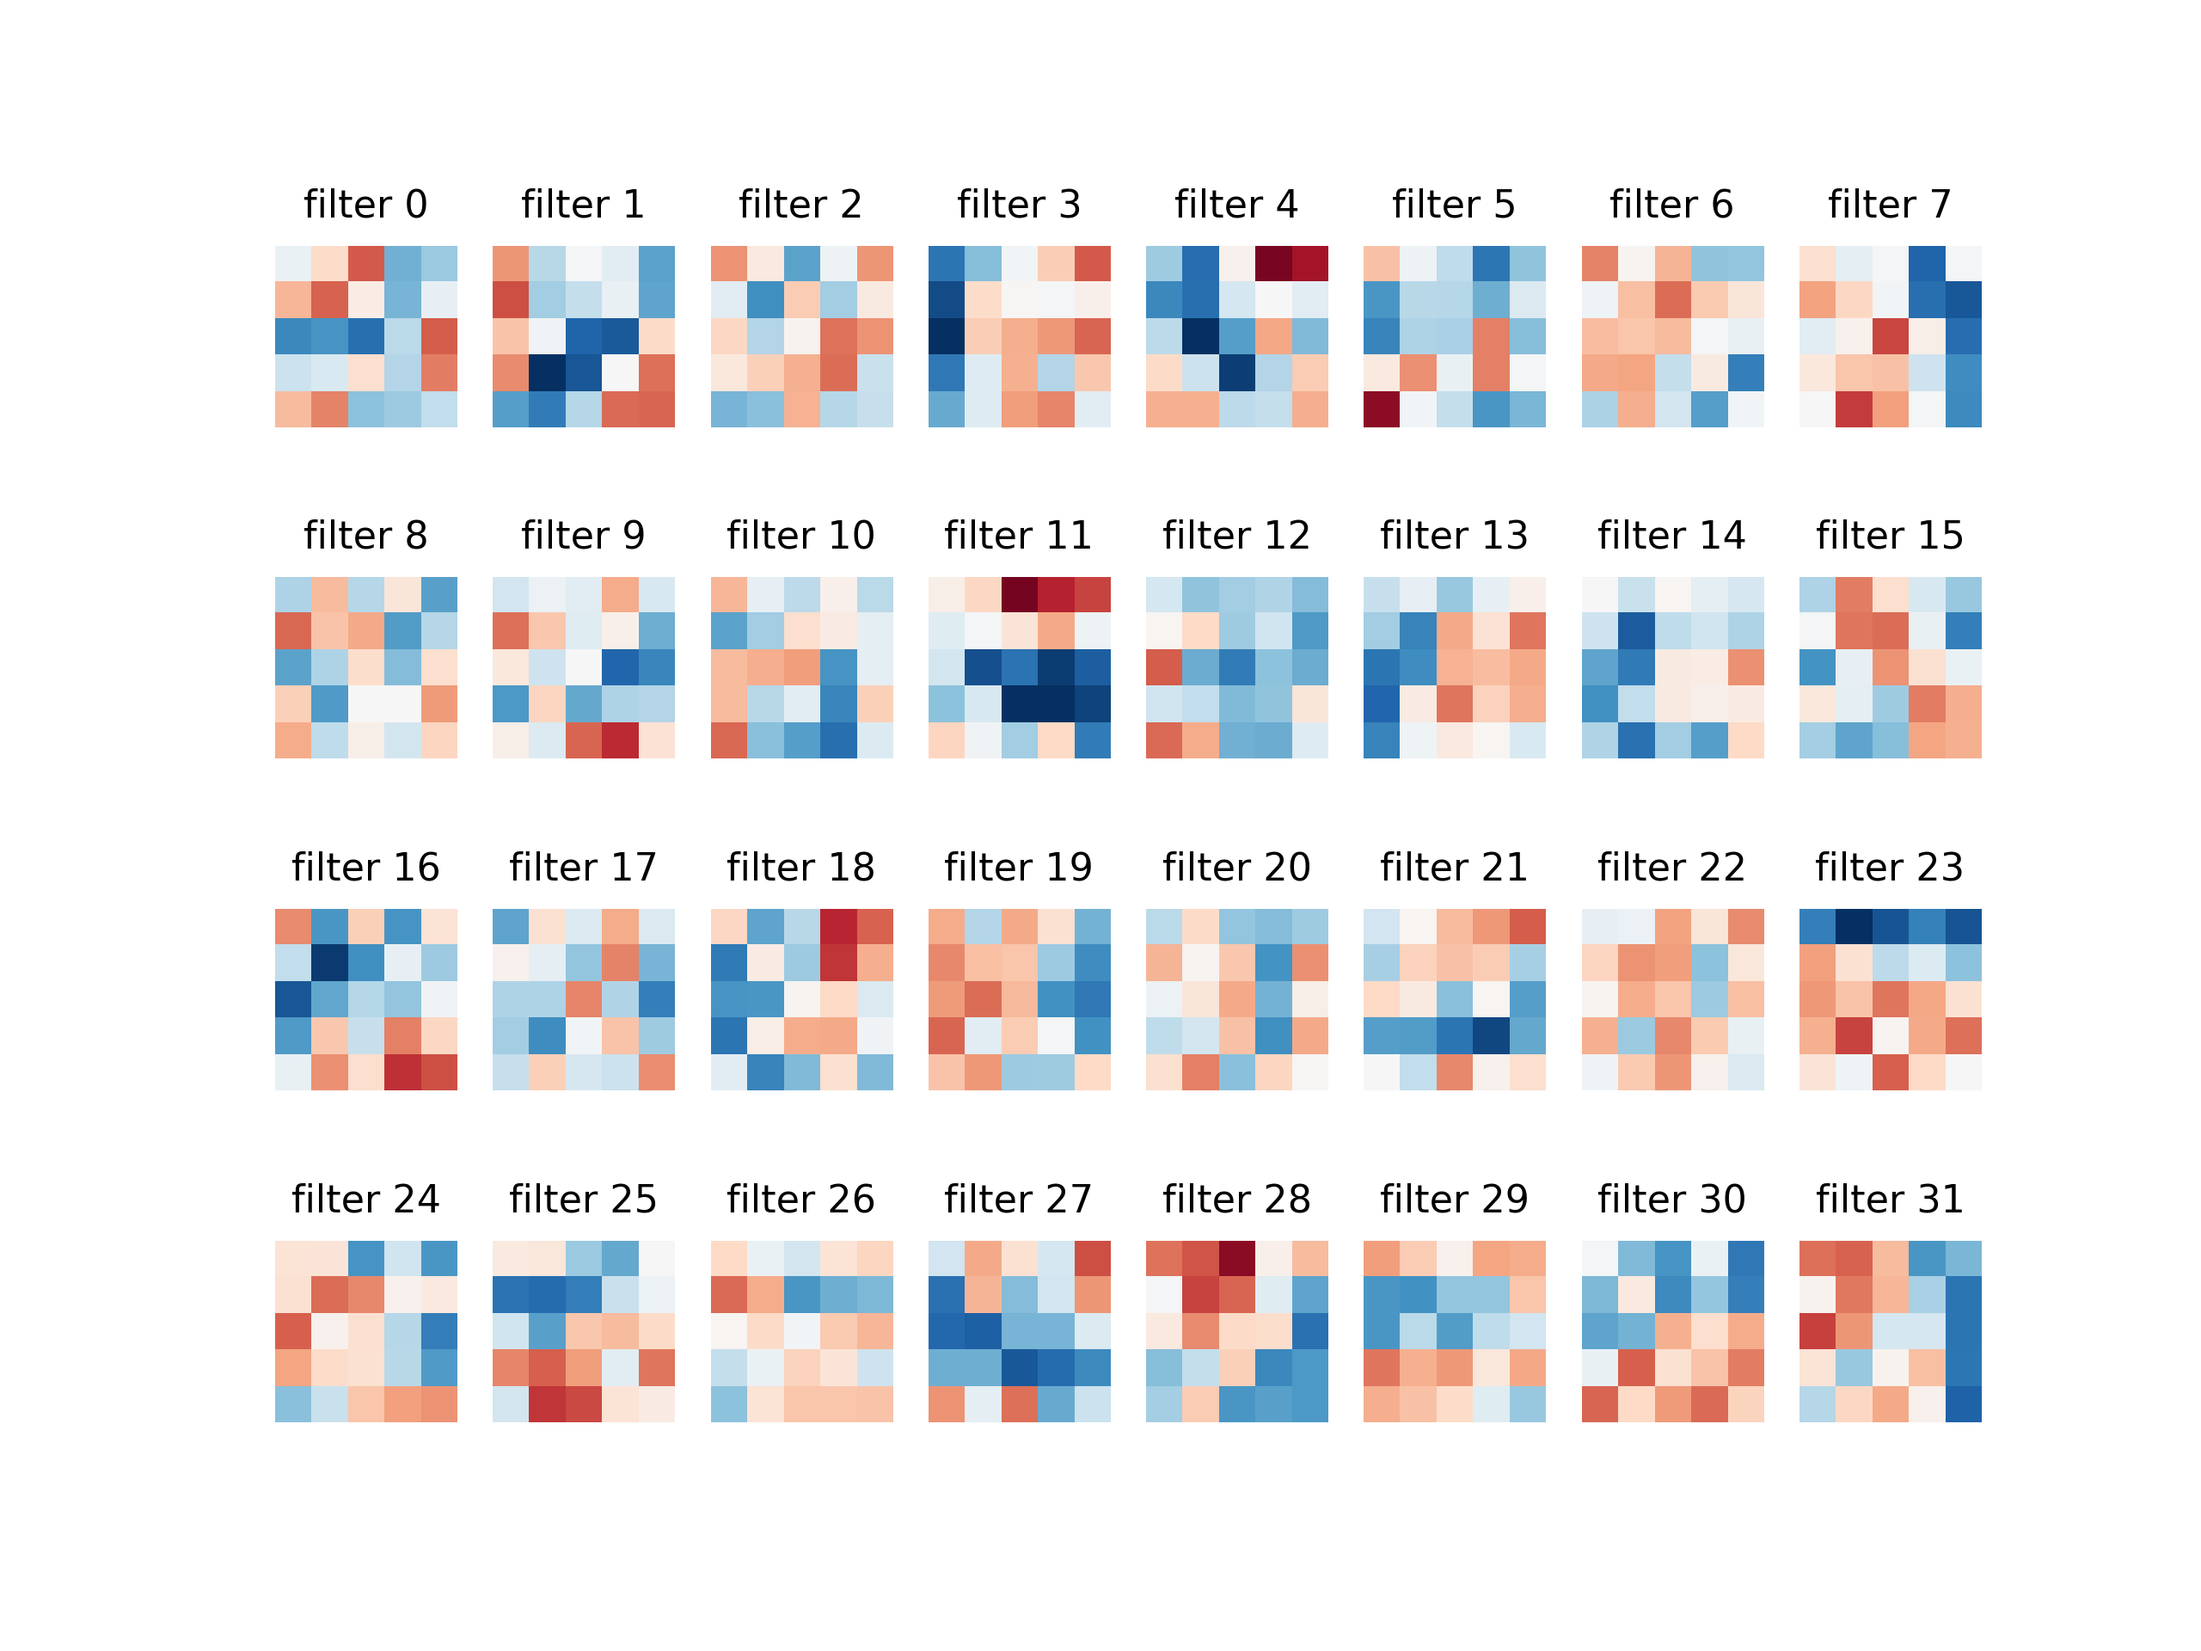
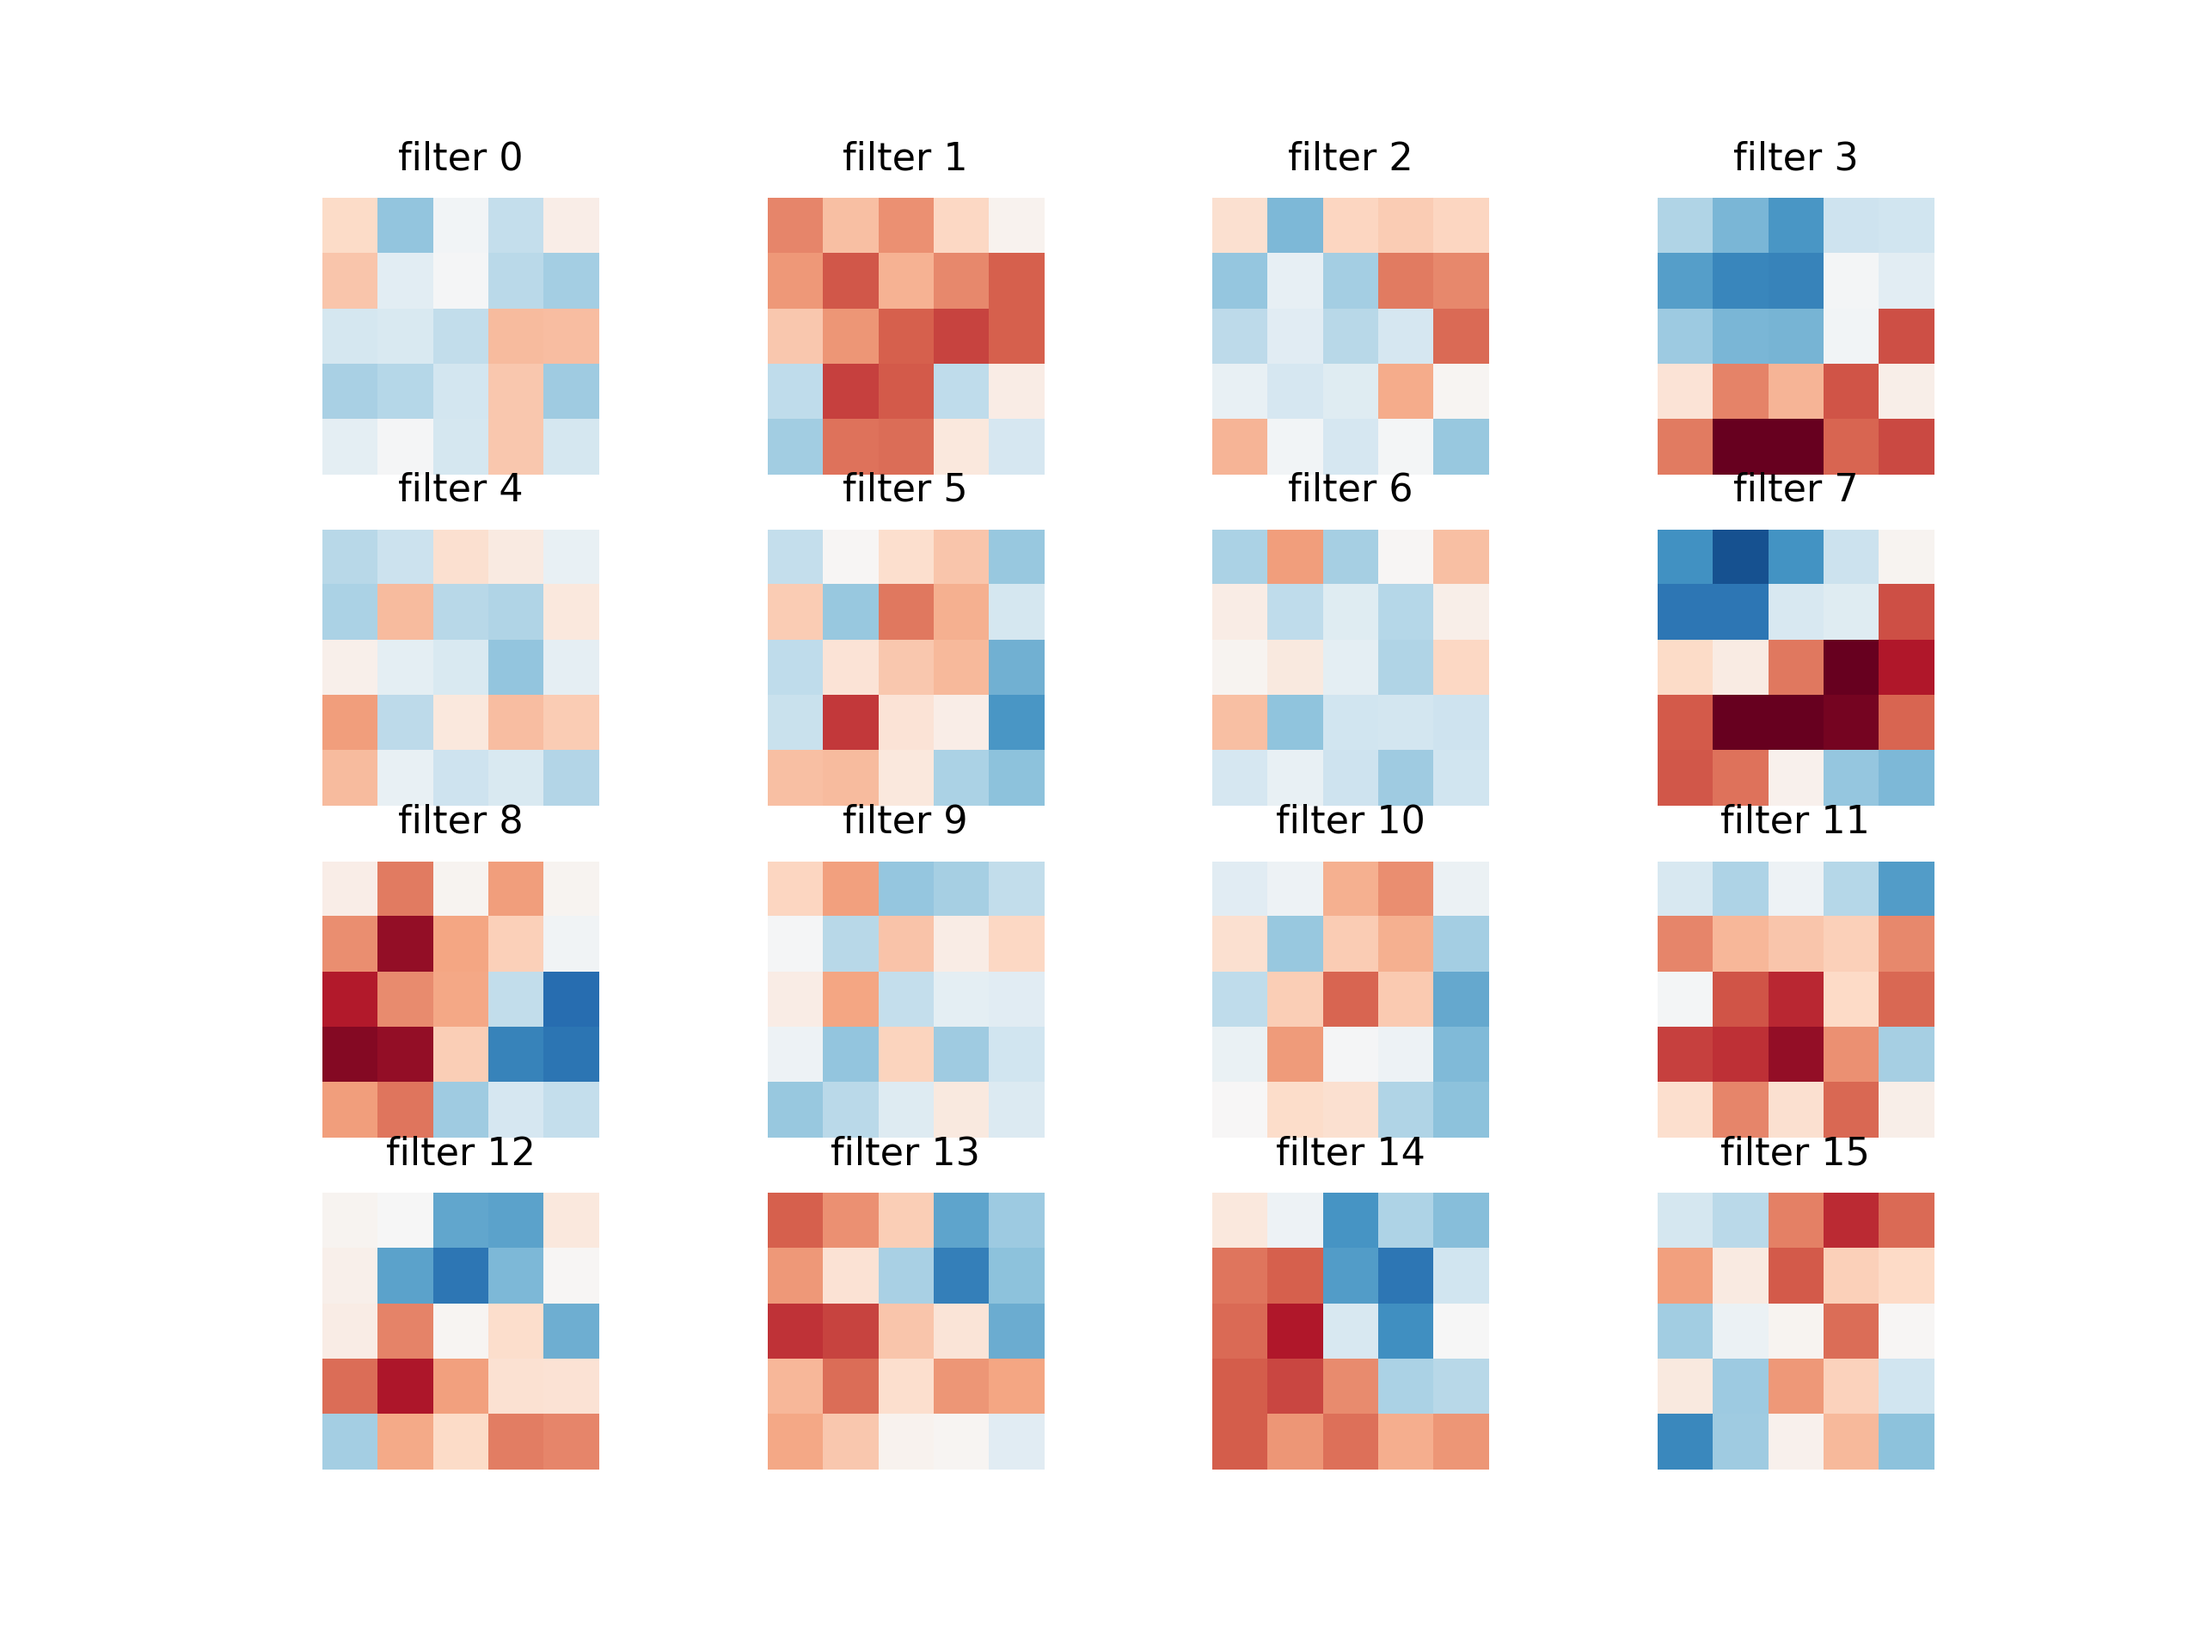
update results

diff --git a/example_conv_mnist.py b/example_conv_mnist.py
@@ -4,6 +4,7 @@ adapted from this tutorial: https://github.com/ozx1812/MNIST-PyTorch/blob/master
 
 import numpy as np
 import matplotlib.pyplot as plt
+import matplotlib.patches as mpatches
 import torch
 from torch.optim.lr_scheduler import StepLR
 
@@ -35,8 +36,8 @@ images, labels = dataiter.next()
 
 
 #%% the actual model
-l1 = 5.
-M = 10.
+l1 = 4.
+M = 1.
 
 model = ConvLassoNet(lambda_ = l1, M = M, D_in = (28,28), D_out = 10)
 
@@ -48,7 +49,7 @@ for param in model.parameters():
     print(param.size())
 
 #%%
-n_epochs = 5
+n_epochs = 10
 loss = torch.nn.CrossEntropyLoss()
 
 alpha0 = 0.01
@@ -79,47 +80,70 @@ train_info2 = model2.do_training(loss, train_loader, opt = opt2, n_epochs = n_ep
 #     print(param.data)
 
 fig, ax = plt.subplots()
-ax.plot(train_info['train_loss'], c = '#002635', marker = 'o', label = 'Training loss')
-ax.plot(train_info['valid_loss'], c = '#002635', marker = 'x', ls = '--', label = 'Validation loss')
+ax.plot(train_info['train_loss'], c = '#002635', marker = 'o', label = 'Train loss ConvLassoNet')
+ax.plot(train_info['valid_loss'], c = '#002635', marker = 'x', ls = '--', label = 'Validation loss ConvLassoNet')
 
-ax.plot(train_info2['train_loss'], c = '#AB1A25', marker = 'o', label = 'Training loss (uncon.)')
-ax.plot(train_info2['valid_loss'], c = '#AB1A25', marker = 'x', ls = '--', label = 'Validation loss (uncon.)')
+ax.plot(train_info2['train_loss'], c = '#AB1A25', marker = 'o', label = 'Train loss Unconstrained')
+ax.plot(train_info2['valid_loss'], c = '#AB1A25', marker = 'x', ls = '--', label = 'Validation loss Unconstrained')
 
 ax.set_xlabel('Epoch')
 ax.set_ylim(0,)
 ax.legend()
 fig.suptitle('Loss with and without LassoNet constraint')
 
-#fig.savefig('plots/conv_loss.png', dpi = 400)
+fig.savefig('plots/conv_loss.png', dpi = 400)
 ##013440
 ##D97925
 
-#%% plot Conv filter weights
+#%% plot Conv2 filter norm
 
-def plot_filter(model, cmap = plt.cm.cividis, vmin = None, vmax = None):
+def plot_filter_norm(mod, ax, color):
     
-    conv_filter = model.conv2.weight.data
+    X = mod.conv2.weight.data.numpy()
+    infnorm_ = np.linalg.norm(X, axis = (2,3)).T
+    ax.plot(infnorm_, lw = 0.5, alpha = 0.2, c = color, marker = 'o')    
+
+    return 
+
+fig, ax = plt.subplots()
+plot_filter_norm(model, ax, color = '#002635')
+plot_filter_norm(model2, ax, color = '#AB1A25')
+
+ax.set_ylabel('Max-norm of each filter channel')
+ax.set_xlabel('Conv1 output channel')
+ax.set_ylim(0,)
+
+p1 = mpatches.Patch(color='#002635', label='ConvLassoNet')
+p2 = mpatches.Patch(color='#AB1A25', label='Unconstrained')
+ax.legend(handles=[p1,p2])
+
+fig.savefig('plots/conv2_filter_norm.png', dpi = 400)
+
+#%% plot Conv1 filter weights
+
+def plot_filter1(model, cmap = plt.cm.cividis, vmin = None, vmax = None):
     
-    for j in np.arange(conv_filter.size(1)):
+    conv_filter = model.conv1.weight.data
+    
+    for j in np.arange(conv_filter.size(0)):
         ax = axs.ravel()[j]
-        ax.imshow(conv_filter[:,j,:,:].mean(axis=0), cmap = cmap, vmin = vmin, vmax = vmax) 
+        ax.imshow(conv_filter[j,0,:,:], cmap = cmap, vmin = vmin, vmax = vmax) 
         ax.axis('off')
         ax.set_title(f'filter {j}', fontsize = 8)
 
     return 
 
-v_ = 0.4
+v_ = 0.5
 
 fig, axs = plt.subplots(4,4)
-plot_filter(model, cmap=plt.cm.RdBu, vmin=-v_, vmax=v_)
-#fig.savefig('plots/conv_filter.png', dpi = 400)
+plot_filter1(model, cmap=plt.cm.RdBu_r, vmin=-v_, vmax=v_)
+fig.savefig('plots/conv_filter.png', dpi = 400)
 
 fig, axs = plt.subplots(4,4)
-plot_filter(model2, cmap=plt.cm.RdBu, vmin=-v_, vmax=v_)
-#fig.savefig('plots/conv_filter_unc.png', dpi = 400)
+plot_filter1(model2, cmap=plt.cm.RdBu_r, vmin=-v_, vmax=v_)
+fig.savefig('plots/conv_filter_unc.png', dpi = 400)
 
 #%% plot skip layer weights
-
 
 def plot_skip(model, label, cmap = plt.cm.cividis, vmin = None, vmax = None):
     skip_weight = model.skip.weight.data.numpy().copy()
@@ -135,8 +159,9 @@ def plot_skip(model, label, cmap = plt.cm.cividis, vmin = None, vmax = None):
     return
 
 label = 8
+v_ = 1e-3
 
 fig, axs = plt.subplots(4,4)
 fig.suptitle(f'Linear weights of convolution output for digit {label}')
-plot_skip(model, label, cmap = plt.cm.cividis, vmin = -2e-4, vmax = 2e-4)
-#fig.savefig(f'plots/conv_skip_{label}.png', dpi = 400)
+plot_skip(model, label, cmap = plt.cm.cividis, vmin = -v_, vmax = v_)
+fig.savefig(f'plots/conv_skip_{label}.png', dpi = 400)
